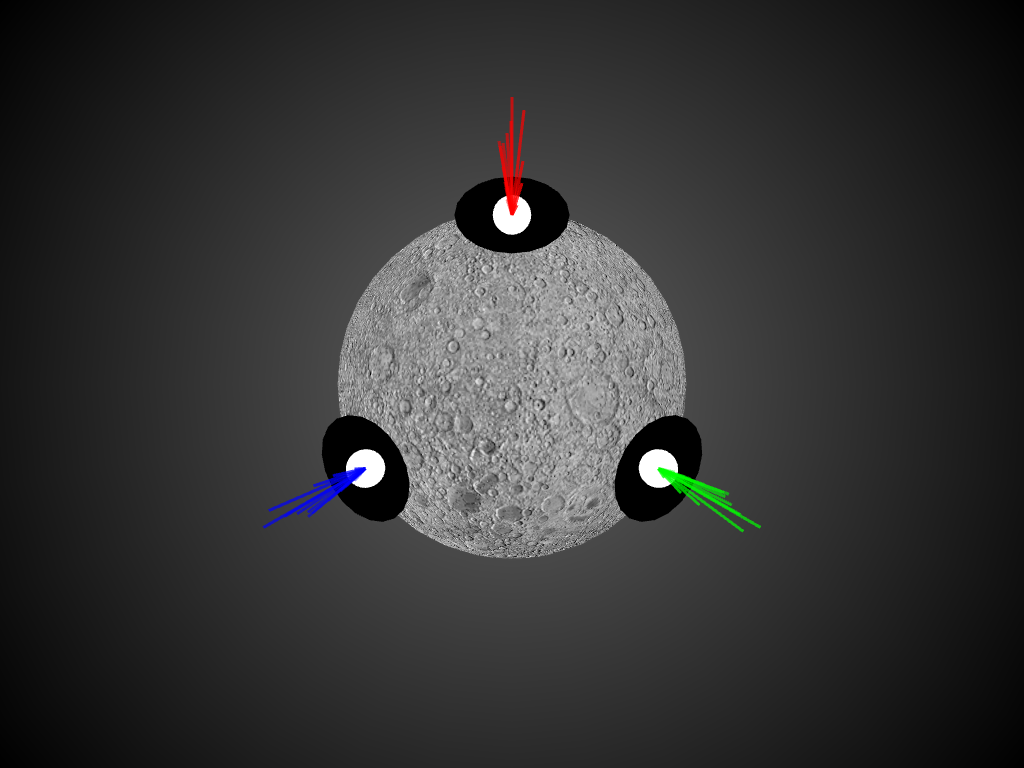
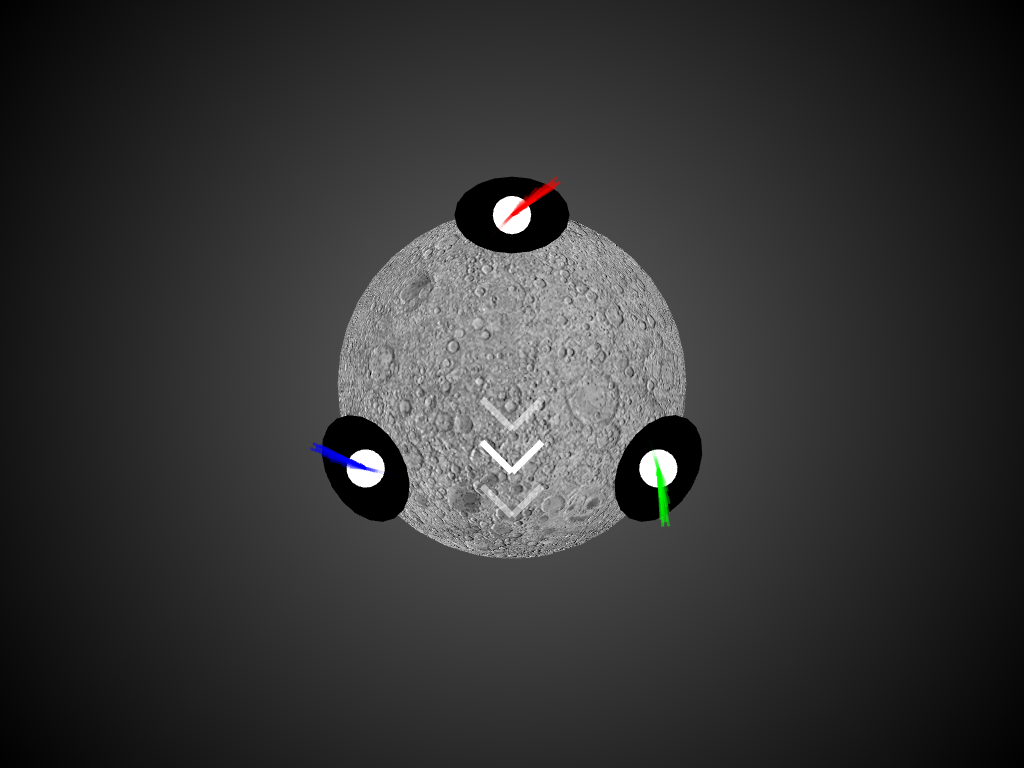
animated down arrow

diff --git a/src/main.cpp b/src/main.cpp
@@ -7,7 +7,7 @@ public:
   vector<ofPoint> history[3];
   float trackballOrientation = 0; //45 //90;
   ofImage image;
-  float globeRadius = .44;
+  struct { float radius = .44, smoothing = 1.0; ofQuaternion rotation; } globe;
   
   struct {
     int id;
@@ -16,13 +16,14 @@ public:
   
   void setup() {
     ofBackground(0);
+    ofSetFrameRate(60);
     ofEnableNormalizedTexCoords();
     image.load("moon.jpg");
     
     //configure or detect me
     devices[0].id = 0;
-    devices[1].id = 0; //1
-    devices[2].id = 0; //2
+    devices[1].id = 0; //1;
+    devices[2].id = 0; //2;
   }
   
   void update() {
@@ -32,6 +33,8 @@ public:
       if (history[i].size()>40) history[i].erase(history[i].begin());
       devices[i].value *= 0;
     }
+    
+    //globe.rotation *= ofQuaternion(-1, ofPoint(1,0,0));
   }
   
   void draw() {
@@ -39,26 +42,49 @@ public:
     ofTranslate(ofGetWidth()/2,ofGetHeight()/2);
     ofNoFill();
     
-    //globe
+    drawGlobe();
+    drawTrackballs();
+    drawArrowAnimation();
+  }
+  
+  void applyRotation() {
+    static ofVec3f fromAxis,toAxis;
+    static float fromAngle=0,toAngle;
+    globe.rotation.getRotate(toAngle,toAxis);
+    fromAxis += (toAxis-fromAxis) * globe.smoothing;
+    fromAngle += (toAngle-fromAngle) * globe.smoothing;
+    ofRotate(fromAngle, fromAxis.x, fromAxis.y, fromAxis.z);
+  }
+  
+  void drawGlobe() {
+    ofPushMatrix();
+    applyRotation();
     ofFill();
     ofSetColor(255);
     image.bind();
     ofEnableDepthTest();
-    ofDrawSphere(scaler(globeRadius));
+    ofDrawSphere(scaler(globe.radius));
     ofDisableDepthTest();
     image.unbind();
-
+    ofPopMatrix();
+  }
+  
+  void keyPressed(int key) {
+    ofSaveFrame();
+  }
+  
+  void drawTrackballs() {
     //trackballs
     for (int i=0; i<3; i++) {
       ofPushMatrix();
       ofPushStyle();
       ofRotateZ(i/3.*360);
-      ofTranslate(0,-scaler(globeRadius));
-//      ofRotateZ(90);
+      ofTranslate(0,-scaler(globe.radius));
       ofSetColor(0);
       ofDrawEllipse(0,0,scaler(.3),scaler(.2));
       ofSetColor(255);
-      ofDrawSphere(scaler(.1/2));
+      ofFill();
+      ofDrawCircle(0,0,scaler(.1/2));
       
       //trackball motion
       for (int j=0; j<history[i].size(); j++) {
@@ -76,15 +102,29 @@ public:
       ofPopStyle();
       ofPopMatrix();
     }
-    
+  }
+  
+  void drawArrowAnimation() {
+    int h = 175;
+    for (int i=0, n=4; i<n; i++) {
+      float ii=float(i)/n;
+      ofPushMatrix();
+      float y = int(ofGetFrameNum() + ii*h) % h;
+      ofTranslate(0, y);
+      ofSetColor(255, (1-abs(2*(y/h)-1)) * 255);
+      ofNoFill();
+      ofSetLineWidth(10);
+      ofBeginShape();
+      ofVertex(-30,-30);
+      ofVertex(0,0);
+      ofVertex(30,-30);
+      ofEndShape();
+      ofPopMatrix();
+    }
   }
   
   float scaler(float s) {
     return s * ofGetHeight()/2;
-  }
-  
-  void keyPressed(int key) {
-    ofSaveFrame();
   }
   
   virtual void mouseMoved(int device, int axis, int delta) {
